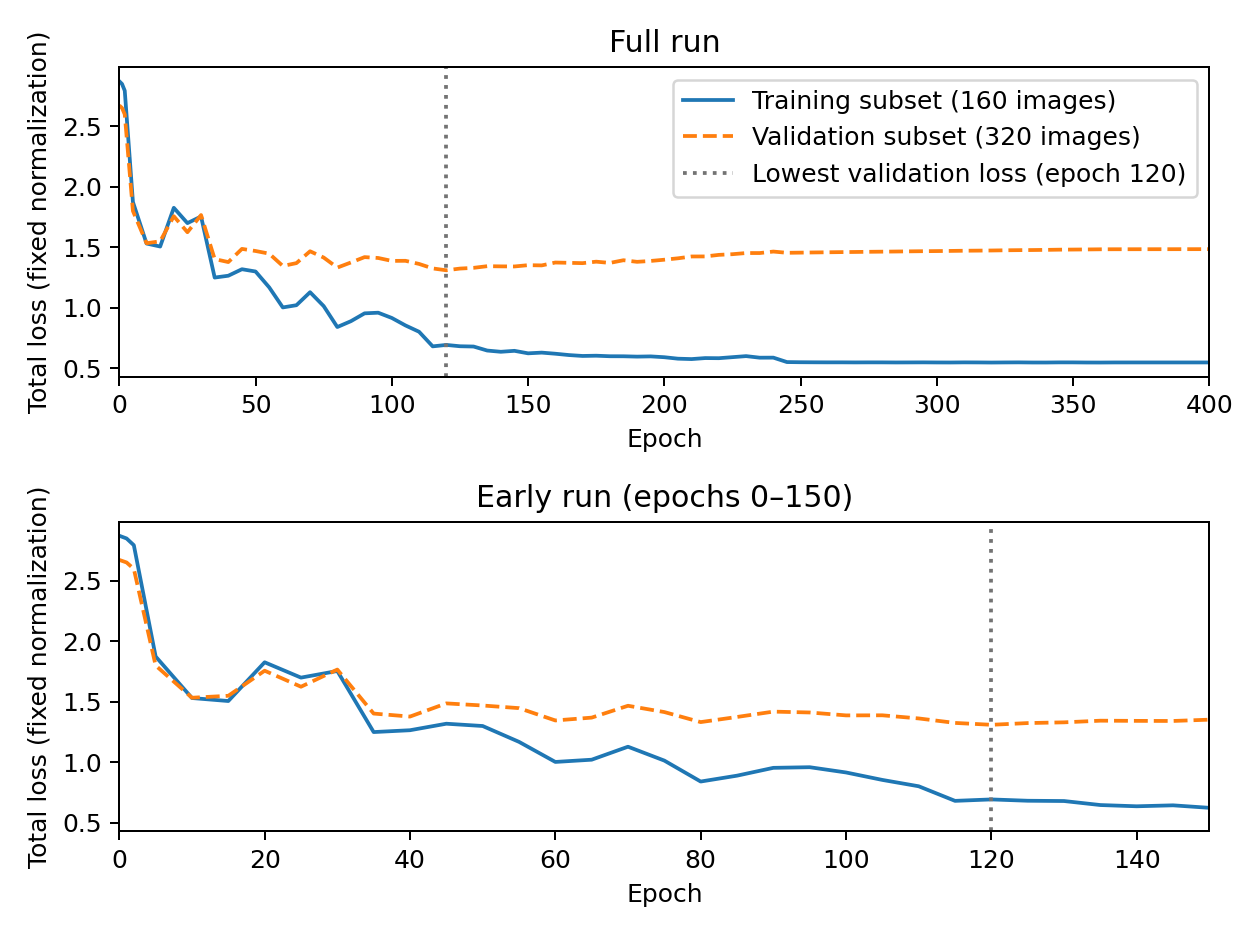
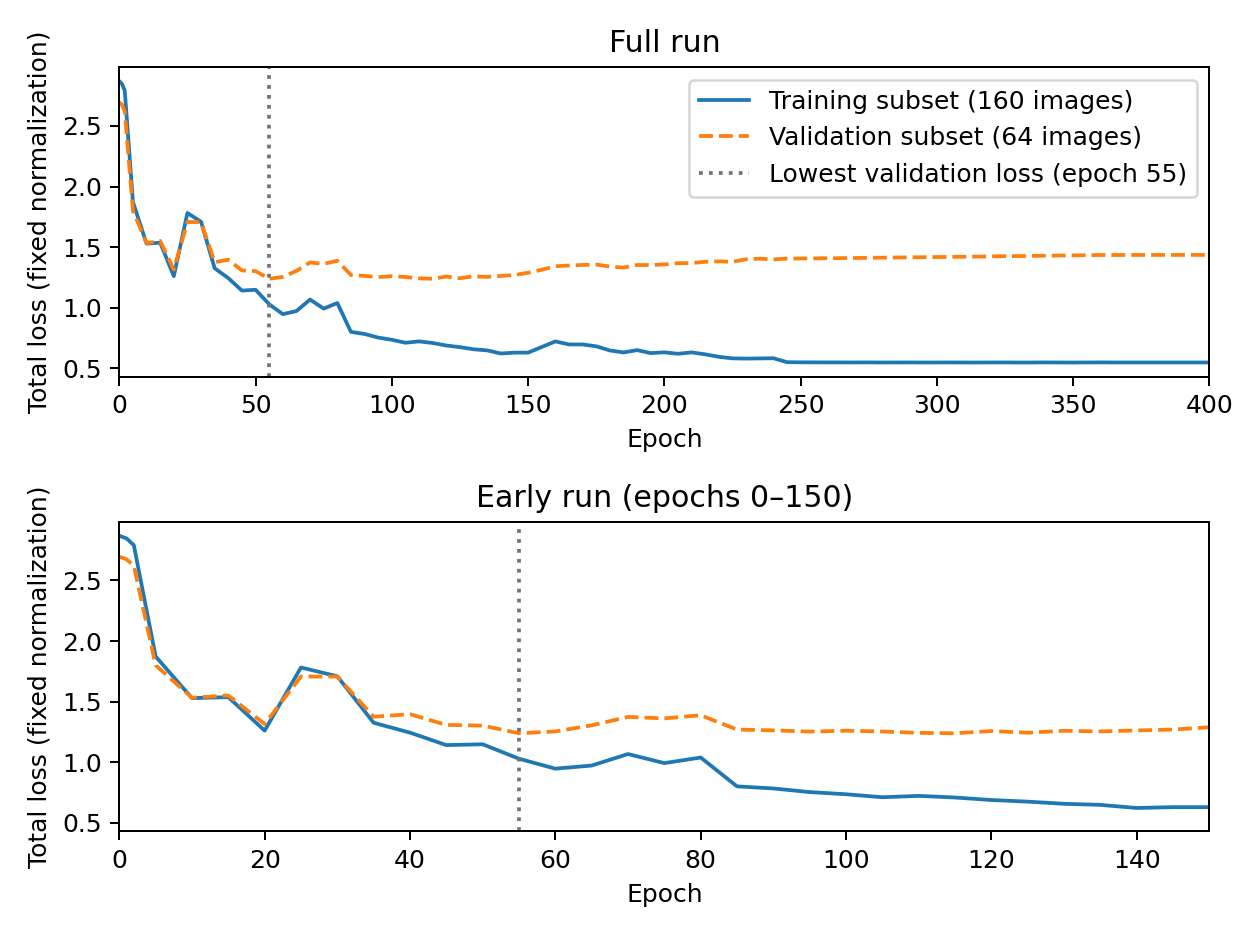
Use 64 validation images for FCOS overfitting comparison

diff --git a/scripts/make_figures.py b/scripts/make_figures.py
@@ -152,30 +152,38 @@ def q2_histograms():
         plt.close(fig)
 
 
-def q3_loss_curves():
-    history_path = ROOT.parent / 'runs/q3_overfit_revision/fcos_160_epoch400_seed0/history.json'
+def q3_loss_curves(overfit_run='fcos_160_val64_epoch400_seed0', overfit_output=None,
+                   overfit_epochs=None):
+    run_path = ROOT.parent / 'runs/q3_overfit_revision' / overfit_run
+    history_path = run_path / 'history.json'
     for mode in ['overfit', 'full']:
         if mode == 'overfit' and history_path.exists():
             history = json.loads(history_path.read_text())
-            if history[-1]['epoch'] != 400:
+            settings = json.loads((run_path / 'settings.json').read_text())
+            if history[-1]['epoch'] != settings['epochs']:
                 raise RuntimeError('Finish the overfit diagnostic before updating the report.')
+            if overfit_epochs is not None:
+                history = [row for row in history if row['epoch'] <= overfit_epochs]
+                if not history or history[-1]['epoch'] != overfit_epochs:
+                    raise ValueError('The requested final epoch must have a recorded loss.')
             epochs = [row['epoch'] for row in history]
             best_epoch = min(history, key=lambda row: row['validation']['total'])['epoch']
-            zoom_end = min(epochs[-1], max(50, ((best_epoch + 49) // 25) * 25))
+            zoom_end = min(epochs[-1], max(150, ((best_epoch + 49) // 25) * 25))
             fig, axes = plt.subplots(2, 1, figsize=(7, 5.2))
             for ax in axes:
                 ax.plot(epochs, [row['train']['total'] for row in history],
-                        label='Training subset (160 images)')
+                        label=f"Training subset ({settings['train_images']} images)")
                 ax.plot(epochs, [row['validation']['total'] for row in history],
-                        label='Validation subset (320 images)', linestyle='--')
+                        label=f"Validation subset ({settings['validation_images']} images)", linestyle='--')
                 ax.axvline(best_epoch, color='0.45', linestyle=':',
                            label=f'Lowest validation loss (epoch {best_epoch})')
                 ax.set(xlabel='Epoch', ylabel='Total loss (fixed normalization)')
-            axes[0].set(xlim=(0, epochs[-1]), title='Full run')
+            title = 'Full run' if epochs[-1] == settings['epochs'] else f'Epochs 0–{epochs[-1]}'
+            axes[0].set(xlim=(0, epochs[-1]), title=title)
             axes[0].legend()
             axes[1].set(xlim=(0, zoom_end), title=f'Early run (epochs 0–{zoom_end})')
             fig.tight_layout()
-            fig.savefig(FIGURES / 'q3_overfit.png', dpi=180)
+            fig.savefig(overfit_output or FIGURES / 'q3_overfit.png', dpi=180)
             plt.close(fig)
             continue
         components = [scalars('fcos_' + mode, 'train/loss_' + kind + '_' + mode)

diff --git a/detection/overfit_diagnostic.py b/detection/overfit_diagnostic.py
@@ -67,7 +67,8 @@ def measure_map(model, dataset, directory, device):
 def main():
     parser = argparse.ArgumentParser()
     parser.add_argument('--epochs', type=int, default=400)
-    parser.add_argument('--run-name', default='fcos_160_epoch400_seed0')
+    parser.add_argument('--val-images', type=int, default=64)
+    parser.add_argument('--run-name', default='fcos_160_val64_epoch400_seed0')
     args = parser.parse_args()
     torch.manual_seed(0)
     device = torch.device('cuda' if torch.cuda.is_available() else 'cpu')
@@ -77,7 +78,9 @@ def main():
     checkpoints.mkdir(parents=True, exist_ok=False)
 
     _, _, training, validation = create_dataset_and_dataloaders(subset=True)
-    val_indices = torch.linspace(0, len(validation) - 1, steps=320).long().tolist()
+    if not 0 < args.val_images <= len(validation):
+        raise ValueError('--val-images must fit within the validation dataset.')
+    val_indices = torch.linspace(0, len(validation) - 1, steps=args.val_images).long().tolist()
     held_out = Subset(validation, val_indices)
     train_paths = [training.dataset.instances[i][0] for i in training.indices]
     val_paths = [validation.instances[i][0] for i in val_indices]
@@ -97,6 +100,8 @@ def main():
     settings = dict(command=[sys.executable] + sys.argv, cwd=os.getcwd(),
                     seed=0, epochs=args.epochs, iterations=iterations,
                     train_images=len(training), validation_images=len(held_out),
+                    validation_to_training_ratio=len(held_out) / len(training),
+                    validation_sampling='evenly_spaced',
                     train_indices=[int(i) for i in training.indices],
                     validation_indices=val_indices, train_paths=train_paths,
                     validation_paths=val_paths, batch_size=16, input_size=224,

diff --git a/report/main.tex b/report/main.tex
@@ -516,7 +516,7 @@ In this problem, we'll be implementing supervised {\href{https://arxiv.org/abs/1
         \begin{figure}[H]
             \centering
             \includegraphics[width=0.95\linewidth,height=0.62\textheight,keepaspectratio]{report/figures/q3_overfit.png}
-            \caption{Small-subset diagnostic: 160 training and 320 validation images over 400 epochs (4,000 updates). Both losses are measured in evaluation mode with the same fixed normalizer, 150. The lower panel shows early training, including the lowest logged validation loss.}
+            \caption{Small-subset diagnostic: 160 training and 64 validation images (40\% of the training count) over 400 epochs (4,000 updates). Both losses are measured in evaluation mode with the same fixed normalizer, 150. The lower panel shows early training, including the lowest logged validation loss.}
             \label{fig:overfit_plot}
         \end{figure}
         
@@ -550,8 +550,8 @@ In this problem, we'll be implementing supervised {\href{https://arxiv.org/abs/1
         \item What can you conclude from the above visualizations? When does the model succeed or fail? How can you improve the results for the failure cases?
 
         \begin{solution}
-Figure~\ref{fig:overfit_plot} shows overfitting after about epoch 120:
-training loss continued to fall while validation loss increased. This shows a better
+Figure~\ref{fig:overfit_plot} shows overfitting in the later epochs:
+training loss stays low while validation loss increases. This shows a better
 fit to the small training subset, rather than complete memorization. In Figure~\ref{fig:full_loss_plot}, full-training loss decreased and finished
 around 0.8.
 

diff --git a/README.md b/README.md
@@ -84,27 +84,29 @@ The few correctness fixes outside TODOs are moving the detector writer's close c
 
 ## Small-subset overfitting diagnostic
 
-Figure 3.1 uses a separate diagnostic; the original 250-update run and the full-training checkpoint remain under `../runs/starter_revision/` and `../checkpoints/starter_revision/`. The diagnostic keeps the starter's 160 evenly spaced training images, 224-pixel inputs, batch size 16, seed 0, and SGD (learning rate 0.005, momentum 0.9, weight decay 0.0001). It extends training to 400 epochs, or 4,000 updates, with the same scheduler rule: multiply the rate by 0.1 at 60% and 90% of the updates. A fixed 320-image subset of the separate validation split supplies the validation curve; its images never enter the optimizer.
+Figure 3.1 uses a separate diagnostic; the original 250-update run and the full-training checkpoint remain under `../runs/starter_revision/` and `../checkpoints/starter_revision/`. The diagnostic keeps the starter's 160 evenly spaced training images, 224-pixel inputs, batch size 16, seed 0, and SGD (learning rate 0.005, momentum 0.9, weight decay 0.0001). It extends training to 400 epochs, or 4,000 updates, with the same scheduler rule: multiply the rate by 0.1 at 60% and 90% of the updates.
+
+Exactly 64 fixed, evenly spaced images from the separate validation split supply every validation measurement; they never enter the optimizer. This is 40% of the training count, the largest size in the requested 20–40% range. It provides four complete batches and includes all 20 classes after the supplied crop. The indices were fixed before examining the measured losses; paths and class counts are recorded with the run.
 
 From `detection/`, run:
 
 ```shell
-CUDA_VISIBLE_DEVICES=1 python overfit_diagnostic.py --epochs 400 --run-name fcos_160_epoch400_seed0
+CUDA_VISIBLE_DEVICES=1 python overfit_diagnostic.py --epochs 400 --val-images 64 --run-name fcos_160_val64_epoch400_seed0
 ```
 
-Logs, settings, source hashes, losses, and AP results are saved under `../runs/q3_overfit_revision/fcos_160_epoch400_seed0/`; checkpoints go under `../checkpoints/q3_overfit_revision/fcos_160_epoch400_seed0/`. Use a different run name for another experiment. Training and validation losses are measured at epochs 0, 1, 2, and every five epochs, in evaluation mode without gradients or changes to batch statistics. Both use the same fixed normalizer, 150, so changes in the training EMA cannot create an apparent validation-loss trend. The optimizer still uses the original EMA-normalized loss. Each plotted point averages all images in its subset.
+Logs, settings, source hashes, losses, and AP results are saved under `../runs/q3_overfit_revision/fcos_160_val64_epoch400_seed0/`; checkpoints go under `../checkpoints/q3_overfit_revision/fcos_160_val64_epoch400_seed0/`. Use a different run name for another experiment. Training and validation losses are measured at epochs 0, 1, 2, and every five epochs, in evaluation mode without gradients or changes to batch statistics. Both use the same fixed normalizer, 150, so changes in the training EMA cannot create an apparent validation-loss trend. The optimizer still uses the original EMA-normalized loss. Each plotted point averages all images in its subset.
 
 The only changes to `FCOS.forward` allow evaluation with supplied ground-truth boxes to return losses and keep the EMA frozen during evaluation. Training and ordinary inference follow their existing paths. Runtime checks verify that each loss evaluation preserves the weights, buffers, and training normalizer.
 
 At epochs 25, 100, and 400, the supplied inference writer and an unchanged copy of Cartucho's evaluator measure AP on both subsets (confidence 0.4, NMS IoU 0.6, evaluation IoU 0.5). These are diagnostic subset scores, separate from the full-validation result in Figure 3.3. Centerness has soft targets, so fitting those targets exactly does not require a zero total loss.
 
-The lowest measured validation loss was 1.3099 at epoch 120. Training loss then fell from 0.6944 to 0.5499, while validation loss rose to 1.4844 at epoch 400. This shows loss-based overfitting after about epoch 120.
+The lowest measured validation loss was 1.2392 at epoch 55, with an almost equal value of 1.2395 at epoch 115. The early curve fluctuates, so epoch 55 is not a precise onset of overfitting. Later, training loss stays low while validation loss rises. At epoch 400, training loss is 0.5488 and validation loss is 1.4364, 15.9% above its minimum.
 
 | Epoch | Training-subset mAP | Validation-subset mAP |
 | --- | --- | --- |
-| 25 | 0.30% | 0.18% |
-| 100 | 29.42% | 1.66% |
-| 400 | 93.95% | 7.79% |
+| 25 | 0.09% | 0.00% |
+| 100 | 50.16% | 8.11% |
+| 400 | 92.49% | 9.99% |
 
 Both AP calculations include all 20 classes. The large final gap shows a strong fit to the small training subset with poor generalization; training detections are not perfect. Validation AP still improves across these checkpoints even though validation loss increases later, so the loss-based conclusion does not mean that every validation metric deteriorates.
 
@@ -113,6 +115,14 @@ To regenerate only the Q3 loss figures from the repository root:
 ```shell
 python -c 'from scripts.make_figures import q3_loss_curves; q3_loss_curves()'
 ```
+
+Views ending at epochs 150, 200, 300, and 400 are saved as `figure_3_1_epochs_*.png` in the run directory, alongside `epoch_comparison.json`. These show prefixes of the same 400-epoch run, with its scheduler unchanged. Validation loss rises 4.0%, 9.6%, 14.5%, and 15.9% above its minimum at those endpoints. Figure 3.1 uses the complete 400-epoch view, which shows the most sustained divergence, plus an early-training panel. No smoothing is applied. To reproduce a shorter view without changing the report figure:
+
+```shell
+python -c 'from scripts.make_figures import q3_loss_curves; q3_loss_curves(overfit_epochs=200, overfit_output="../runs/q3_overfit_revision/fcos_160_val64_epoch400_seed0/figure_3_1_epochs_200.png")'
+```
+
+The previous Figure 3.1, compiled PDF, and LaTeX source are preserved under `../runs/q3_overfit_revision/fcos_160_epoch400_seed0/saved_figure_3_1/`. That run used 320 validation images and had a 13.3% rise from its minimum validation loss. The new figure is a modestly clearer illustration with the requested 64 images; the different validation subsets do not establish an improvement in the model itself.
 
 Both loss figures use epochs. The original full run has 157 updates per epoch (2,501 images, batch size 16); Figure 3.2 keeps its original loss values.
 
